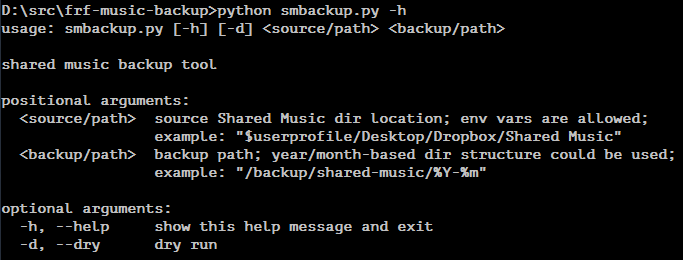
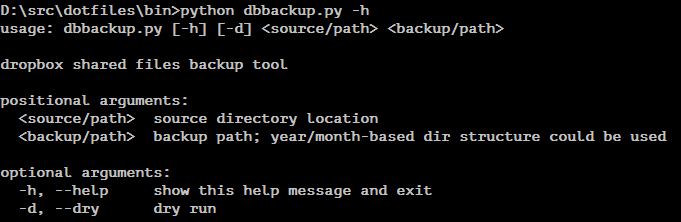
Cleanup.

diff --git a/dbbackup.py b/dbbackup.py
@@ -1,7 +1,7 @@
 #!/usr/bin/env python
 # coding: utf-8
 
-"""Shared music backup tool"""
+"""Dropbox shared files backup tool"""
 
 import argparse
 from datetime import datetime
@@ -12,11 +12,11 @@ import shutil
 
 
 def parse_args():
-    parser = argparse.ArgumentParser(description='shared music backup tool')
+    parser = argparse.ArgumentParser(description='dropbox shared files backup tool')
     parser.add_argument('source',
                         metavar='<source/path>',
                         type=str,
-                        help='source Shared Music dir location; env vars are allowed')
+                        help='source directory location')
     parser.add_argument('dest',
                         metavar='<backup/path>',
                         type=str,
@@ -28,7 +28,7 @@ def parse_args():
     return args.source, args.dest, args.dry
 
 
-log_file = os.path.join(os.path.dirname(__file__), 'smbackup.log')
+log_file = os.path.join(os.path.dirname(__file__), 'dbbackup.log')
 log = logging.getLogger()
 log.setLevel(logging.DEBUG)
 formatter = logging.Formatter("%(asctime)s %(levelname)s: %(message)s",
@@ -52,16 +52,16 @@ if dryrun:
 
 for file_name in glob.glob(os.path.join(source_path, '*')):
     if os.path.isdir(file_name):
-        album_name = os.path.basename(file_name)
-        album_date = datetime.fromtimestamp(os.path.getctime(file_name))
-        date_path = album_date.strftime(backup_path)
-        dest_path = os.path.join(date_path, album_name)
+        subdir_name = os.path.basename(file_name)
+        subdir_date = datetime.fromtimestamp(os.path.getctime(file_name))
+        date_path = subdir_date.strftime(backup_path)
+        dest_path = os.path.join(date_path, subdir_name)
 
         if os.path.exists(dest_path):
-            log.info(" - skipping '%s'" % album_name)
+            log.info(" - skipping '%s'" % subdir_name)
             continue
 
-        log.info(" - copying '%s' to '%s'..." % (album_name, date_path))
+        log.info(" - copying '%s' to '%s'..." % (subdir_name, date_path))
 
         if dryrun:
             continue
